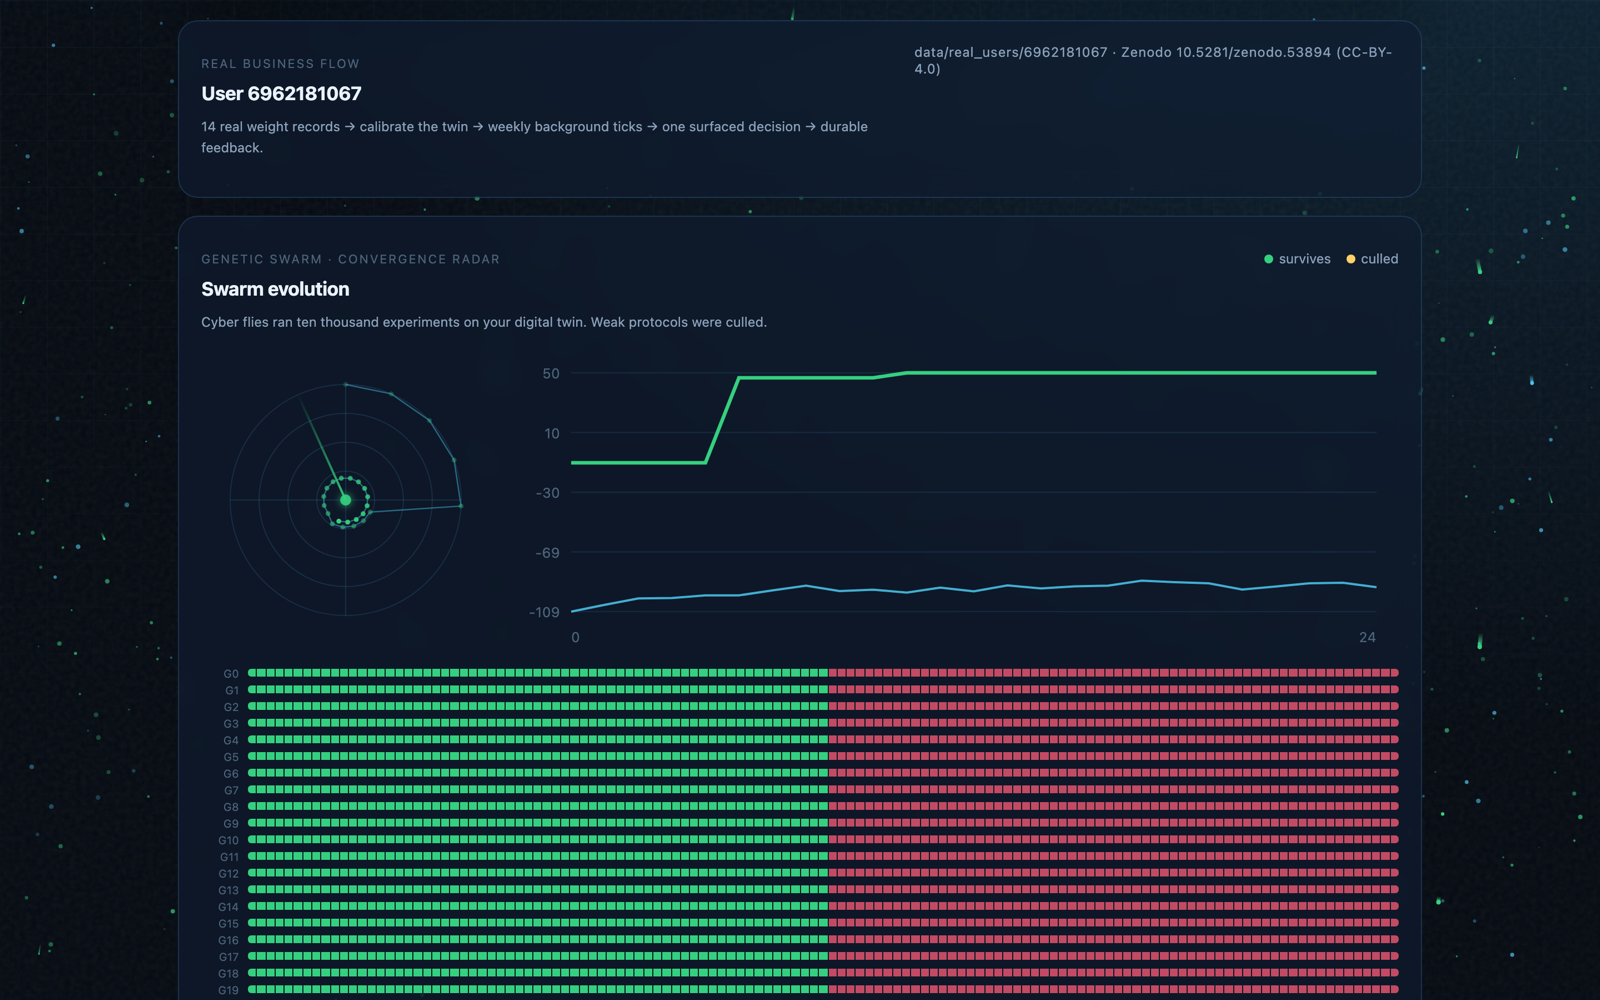
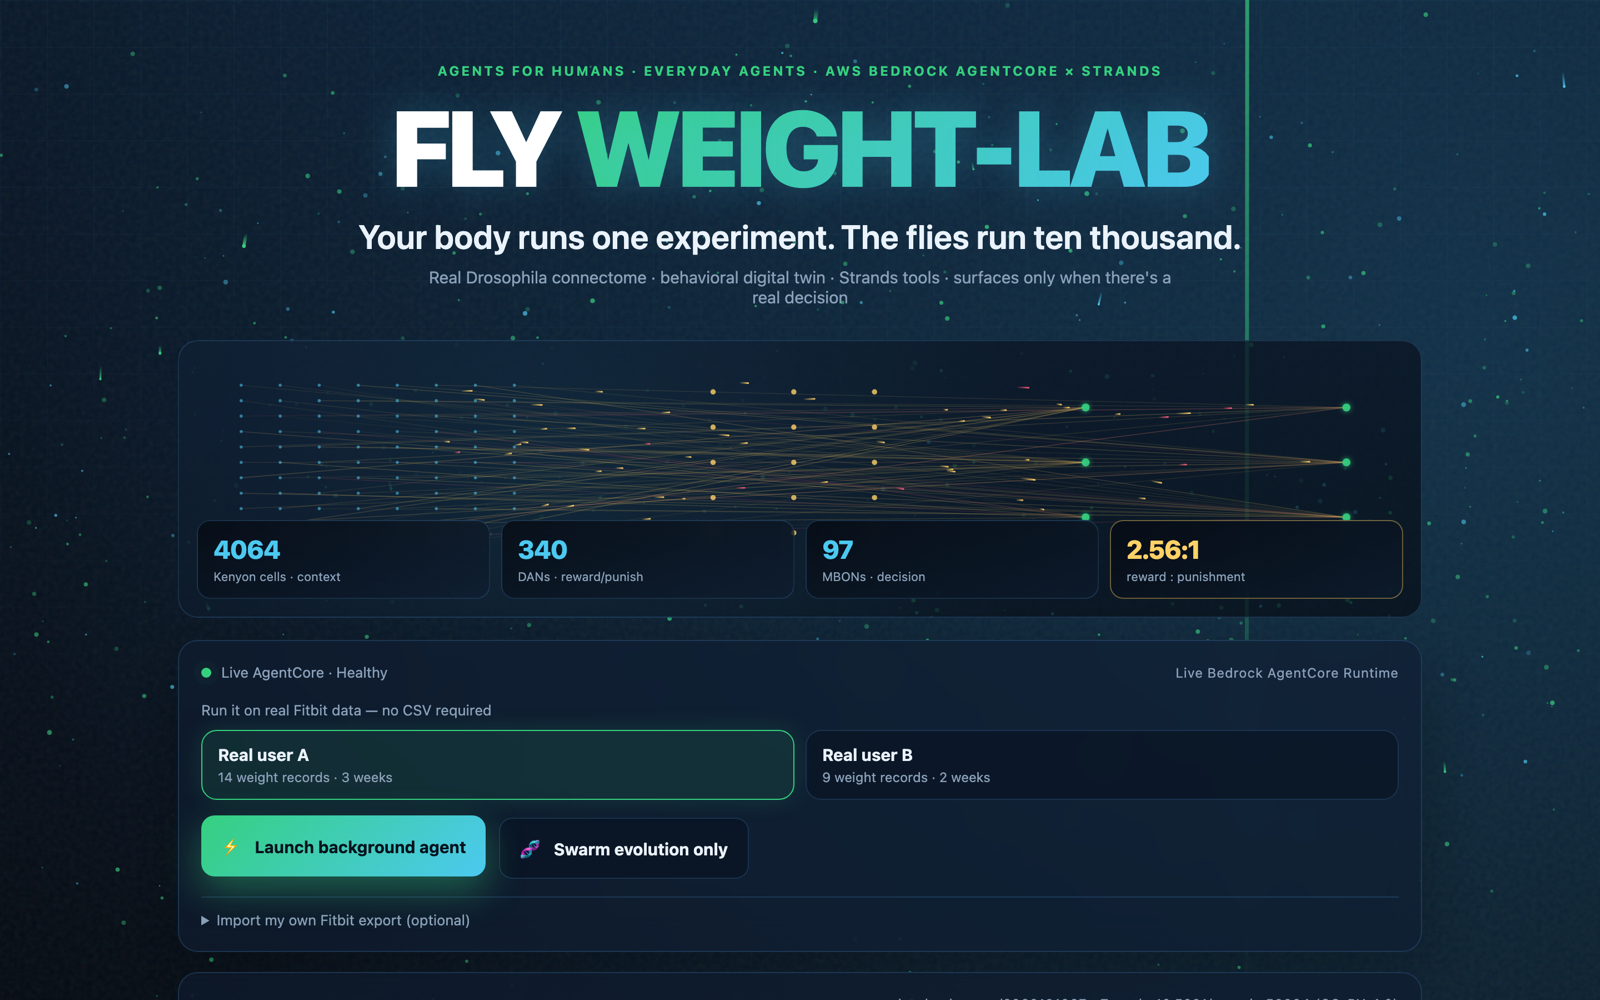
docs: refresh test count to 15 and re-capture demo screenshots

diff --git a/docs/DEVPOST_SUBMISSION.md b/docs/DEVPOST_SUBMISSION.md
@@ -107,10 +107,11 @@ trails, a sonar-style radar where best fitness spirals inward toward the
 champion, and a live wiring diagram of the connectome. Authentication is Vercel ↔
 AWS OIDC federation, so there are no long-lived AWS keys anywhere.
 
-**Verification.** 14 unit tests cover the genotype, the swarm, connectome
+**Verification.** 15 unit tests cover the genotype, the swarm, connectome
 grounding, the background loop's quietness, calibration, safety, memory, offline
-evaluation, and the Strands tool-call loop. GitHub Actions runs them on every
-push, and the Vercel production deploy is green.
+evaluation, the Strands tool-call loop, and the requirement that the two
+preloaded users actually diverge. GitHub Actions runs them on every push, and the
+Vercel production deploy is green.
 
 ## Challenges we ran into
 
@@ -175,7 +176,7 @@ questioning, not weaker.
 - **Honesty and safety by design.** Hard calorie floors, filtered dangerous
   protocols, and escalation to a clinician instead of a plan when a profile is
   out of scope. The agent never diagnoses and never prescribes.
-- **Reproducibility.** 14 tests, deterministic scoring, green CI, and a green
+- **Reproducibility.** 15 tests, deterministic scoring, green CI, and a green
   production deploy on every push.
 
 ## What we learned

diff --git a/docs/BUILDER_AWS_POST.md b/docs/BUILDER_AWS_POST.md
@@ -276,7 +276,7 @@ consistency.
 | AgentCore Runtime | deployed, version 4, `READY` in `us-east-1` |
 | Data-plane invocation | `200` with real swarm output |
 | Live demo | runs the real flow with no local backend |
-| Test suite | 14 tests covering genotype, swarm, connectome, background loop, calibration, safety, memory, evals, Strands loop |
+| Test suite | 15 tests covering genotype, swarm, connectome, background loop, calibration, safety, memory, evals, Strands loop, and that two preloaded users diverge |
 | GitHub Actions | green on `main` |
 | Vercel production deploy | green on `main` |
 
